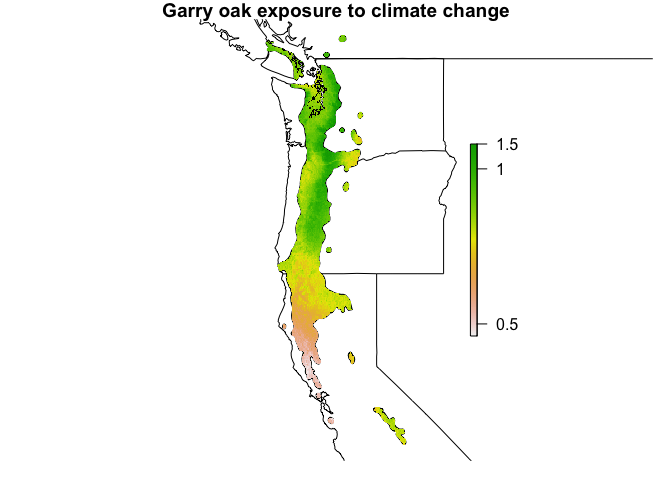
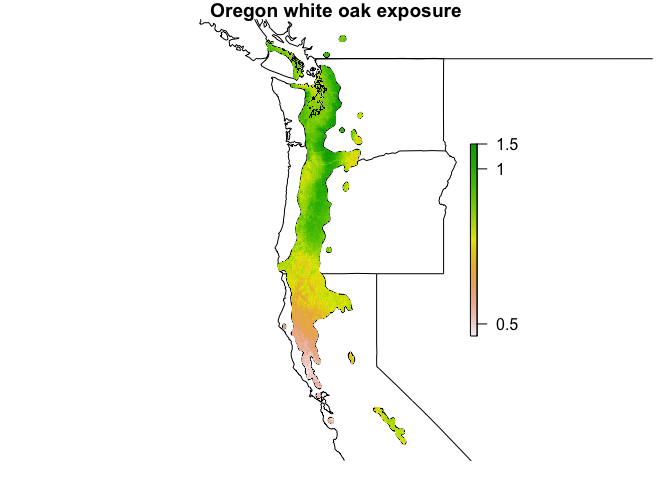
Changed 'map' to 'stretchPlot'.

Changed region(s): [[0.2188, 0.0, 0.75, 0.0625]]

diff --git a/README.md b/README.md
@@ -27,7 +27,7 @@ Examples
 
 ### `enfa`
 
-We will use some example datasets to perform a basic ENFA. The historical climate dataset `climdat.hist` is a RasterBrick of 10 climate variables, covering much of the western US coast. `QUGA` is a SpatialPolygonsDataFrame of the historical range map of Garry oak (*Quercus garryana*).
+We will use some example datasets to perform a basic ENFA. The historical climate dataset `climdat.hist` is a RasterBrick of 10 climate variables, covering much of the western US coast. `QUGA` is a SpatialPolygonsDataFrame of the historical range map of Oregon white oak (*Quercus garryana*).
 
 A plot of the data, using the one of the layers of `climdat.hist`:
 
@@ -221,21 +221,28 @@ Additionally, `parCov` can accept two Raster\* objects as arguments, similar to 
 mat <- parCov(x = climdat.hist, y = climdat.fut, parallel = TRUE, n = 4)
 ```
 
-### `map`
+### `stretchPlot`
 
-The `map` function provides a simple way to adjust the contrast of plots of RasterLayers to emphasize difference in values. It can perform histogram equalization and standard deviation stretching.
+The `stretchPlot` function provides a simple way to adjust the contrast of plots of RasterLayers to emphasize difference in values. It can perform histogram equalization and standard deviation stretching.
 
 ``` r
 sm <- sensitivity_map(mod.cnfa)
 par(mfrow = c(1, 3), oma = c(1,1,1,1))
-map(sm, main = "Linear")
-map(sm, type = "stretch", main = "Histogram equalization")
-map(sm, type = "sd", n = 2, main = "Standard deviation (n = 2)")
+stretchPlot(sm, main = "Linear")
+stretchPlot(sm, type = "stretch", main = "Histogram equalization")
+stretchPlot(sm, type = "sd", n = 2, main = "Standard deviation (n = 2)")
 ```
 
-![](man/figures/README-map-1.png)
+![](man/figures/README-stretchPlot-1.png)
 
 Guidelines for contributing
 ---------------------------
 
 I welcome contributions and suggestions for improving this package. Please do not hesitate to submit any issues you may encounter.
+
+References
+----------
+
+Basille, Mathieu, et al. Assessing habitat selection using multivariate statistics: Some refinements of the ecological-niche factor analysis. Ecological Modelling 211.1 (2008): 233-240.
+
+Hirzel, Alexandre H., et al. Ecological-niche factor analysis: how to compute habitat-suitability maps without absence data?. Ecology 83.7 (2002): 2027-2036.
